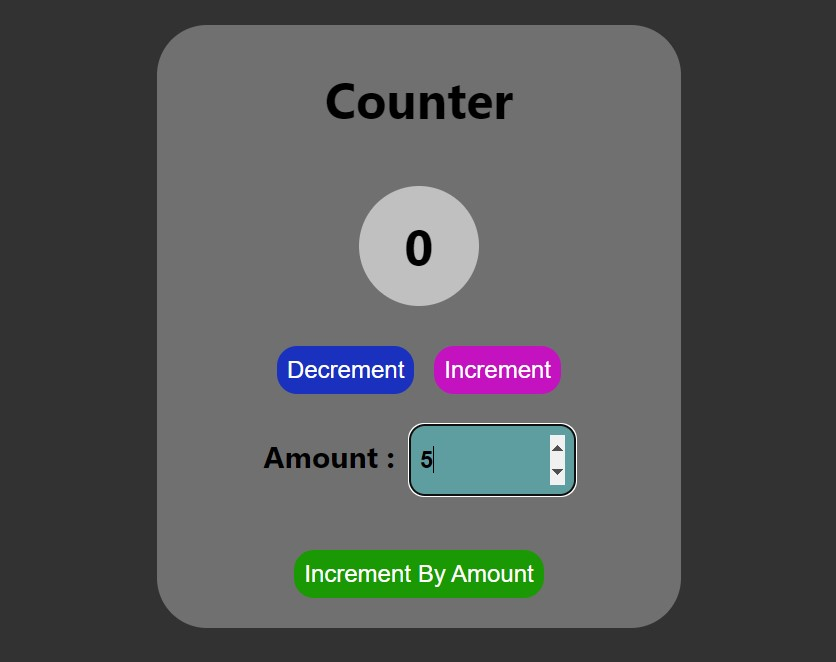
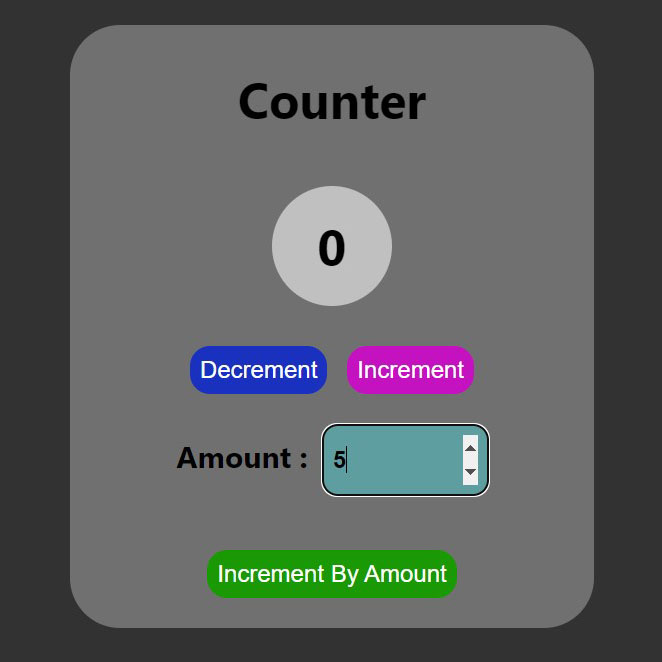
Redux, counter-app | readme.md updated, footer updated

diff --git a/React-Dersleri/Redux/counter-app/src/components/Footer/Footer.js b/React-Dersleri/Redux/counter-app/src/components/Footer/Footer.js
@@ -1,0 +1,36 @@
+import React from "react";
+import styles from "./styles.module.css";
+
+import { FaLinkedinIn, FaGithub } from "react-icons/fa";
+function Footer() {
+  return (
+    <div className={styles.footerContainer}>
+      <div>
+        <p>Sosyal Medya ve Github Repo</p>
+      </div>
+      <div className={styles.social}>
+        <div>
+          <a
+            href="https://www.linkedin.com/in/ziya-caylan/"
+            className={styles.btnSocial}
+          >
+            <FaLinkedinIn />
+          </a>
+        </div>
+        <div>
+          <a
+            href="https://github.com/ziyacaylan/Frontend-Dersleri/tree/main/React-Dersleri/Redux/counter-app"
+            className={styles.btnSocial}
+          >
+            <FaGithub />
+          </a>
+        </div>
+      </div>
+      <div>
+        <p>Copyright © 2022 Ziya ÇAYLAN</p>
+      </div>
+    </div>
+  );
+}
+
+export default Footer;

diff --git a/React-Dersleri/Redux/counter-app/src/components/Footer/styles.module.css b/React-Dersleri/Redux/counter-app/src/components/Footer/styles.module.css
@@ -1,0 +1,35 @@
+.footerContainer {
+  width: 100%;
+  height: auto;
+  text-align: center;
+  background-color: #282727;
+  position: fixed;
+  bottom: 0;
+  left: 0;
+}
+.footerContainer p {
+  color: #fff;
+  padding-top: 5px;
+}
+.social {
+  display: flex;
+  justify-content: center;
+}
+.btnSocial {
+  display: flex;
+  justify-content: center;
+  align-items: center;
+  width: 40px;
+  height: 40px;
+  background-color: #019553;
+  margin: 10px;
+  padding: 10px;
+  border-radius: 50%;
+  color: #fff;
+  font-size: 36px;
+  transition: all 0.3s ease;
+}
+.btnSocial:hover {
+  background-color: #33b57b;
+  font-size: 30px;
+}

diff --git a/React-Dersleri/Redux/counter-app/src/App.css b/React-Dersleri/Redux/counter-app/src/App.css
@@ -1,8 +1,12 @@
 .App {
   width: 100%;
-  height: 100vh;
+  height: calc(100vh - 130px);
   text-align: center;
   background-color: #323232;
+}
+.main-container {
+  width: 100%;
+  height: 100%;
   display: flex;
   justify-content: center;
   align-items: center;
@@ -11,6 +15,7 @@
   background-color: #707070;
   border-radius: 50px;
   padding: 20px;
+  margin: 0 auto;
 }
 h1 {
   font-size: 50px;

diff --git a/React-Dersleri/Redux/counter-app/src/App.js b/React-Dersleri/Redux/counter-app/src/App.js
@@ -1,10 +1,14 @@
 import Counter from "./components/Counter";
+import Footer from "./components/Footer/Footer";
 import "./App.css";
 
 function App() {
   return (
     <div className="App">
-      <Counter />
+      <div className="main-container">
+        <Counter />
+      </div>
+      <Footer />
     </div>
   );
 }

diff --git a/React-Dersleri/Redux/counter-app/README.md b/React-Dersleri/Redux/counter-app/README.md
@@ -8,4 +8,5 @@
 
 ---
 
-<img src="./src/assets/img/counter-app.jpg">
+<img src="./src/assets/img/counter-app.jpg" width="600px">
+<img src="./src/assets/img/counter-app-1.jpg" width="600px">
